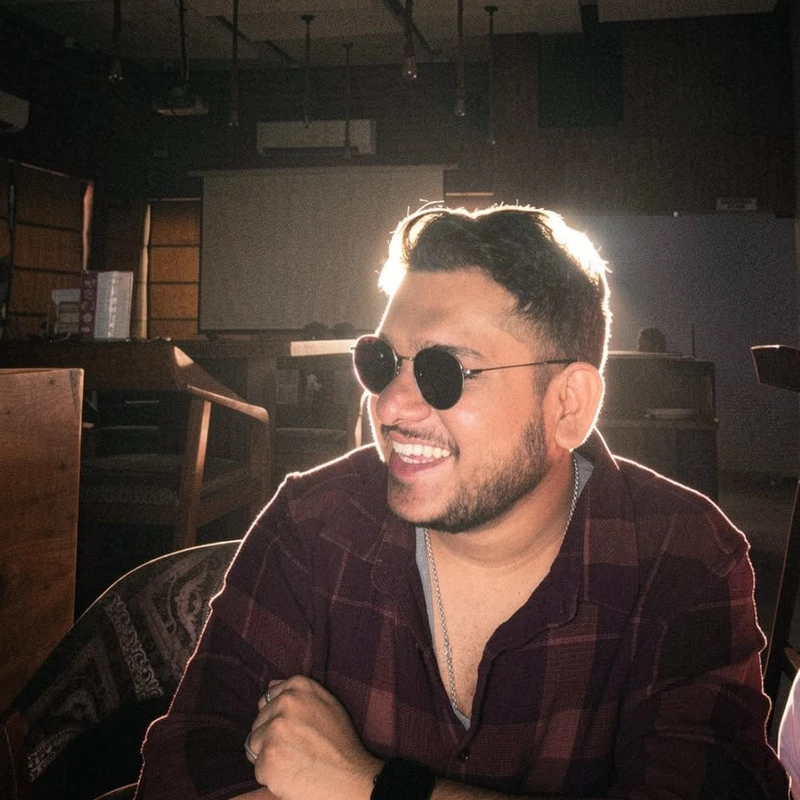
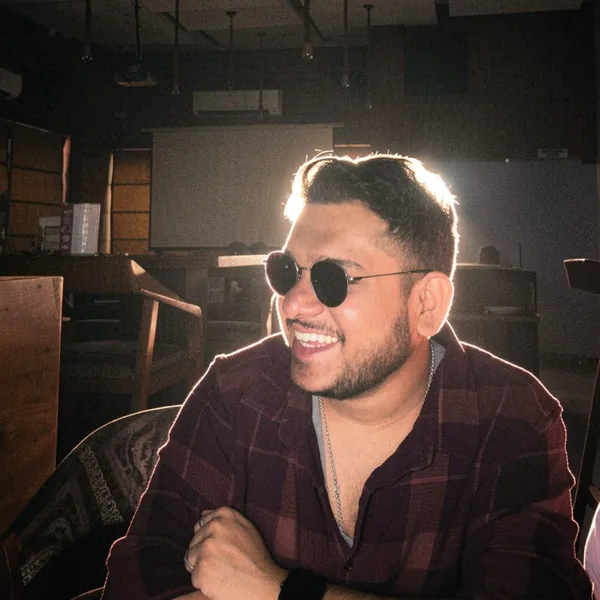
perf(pfp): compress portrait to 35KB webp, add blurDataURL placeholder and link preload

diff --git a/src/app/layout.tsx b/src/app/layout.tsx
@@ -116,6 +116,16 @@ export default function RootLayout({ children }: { children: React.ReactNode }) 
       className={`${inter.variable} ${geistMono.variable} ${dancingScript.variable} ${gambarino.variable} h-full antialiased`}
       suppressHydrationWarning
     >
+      <head>
+        <link
+          rel="preload"
+          as="image"
+          href="/images/profile-2.webp"
+          type="image/webp"
+          // @ts-expect-error fetchpriority is standard in modern HTML
+          fetchpriority="high"
+        />
+      </head>
       <body className="flex min-h-full max-w-full flex-col overflow-x-hidden font-sans">
         <ThemeScript />
         <JsonLd data={[organizationSchema(), { ...personSchema(), "@context": "https://schema.org" }]} />

diff --git a/src/components/profile/hero.tsx b/src/components/profile/hero.tsx
@@ -77,6 +77,9 @@ export function Hero() {
             alt="Naveen Gumaste"
             fill
             priority
+            unoptimized
+            placeholder="blur"
[1 lines of base64/hex data omitted]
             sizes="(max-width: 640px) 100vw, 460px"
             className="object-cover object-[center_15%]"
           />
